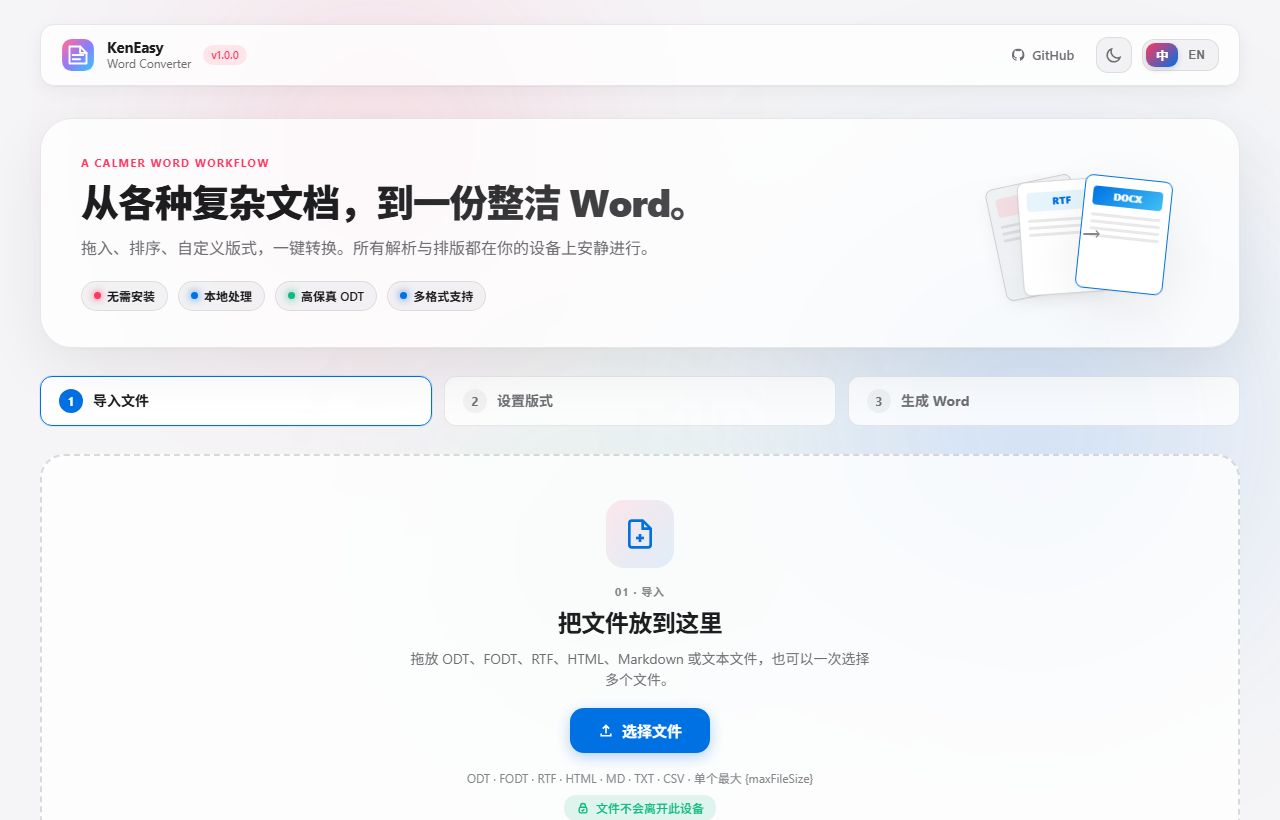
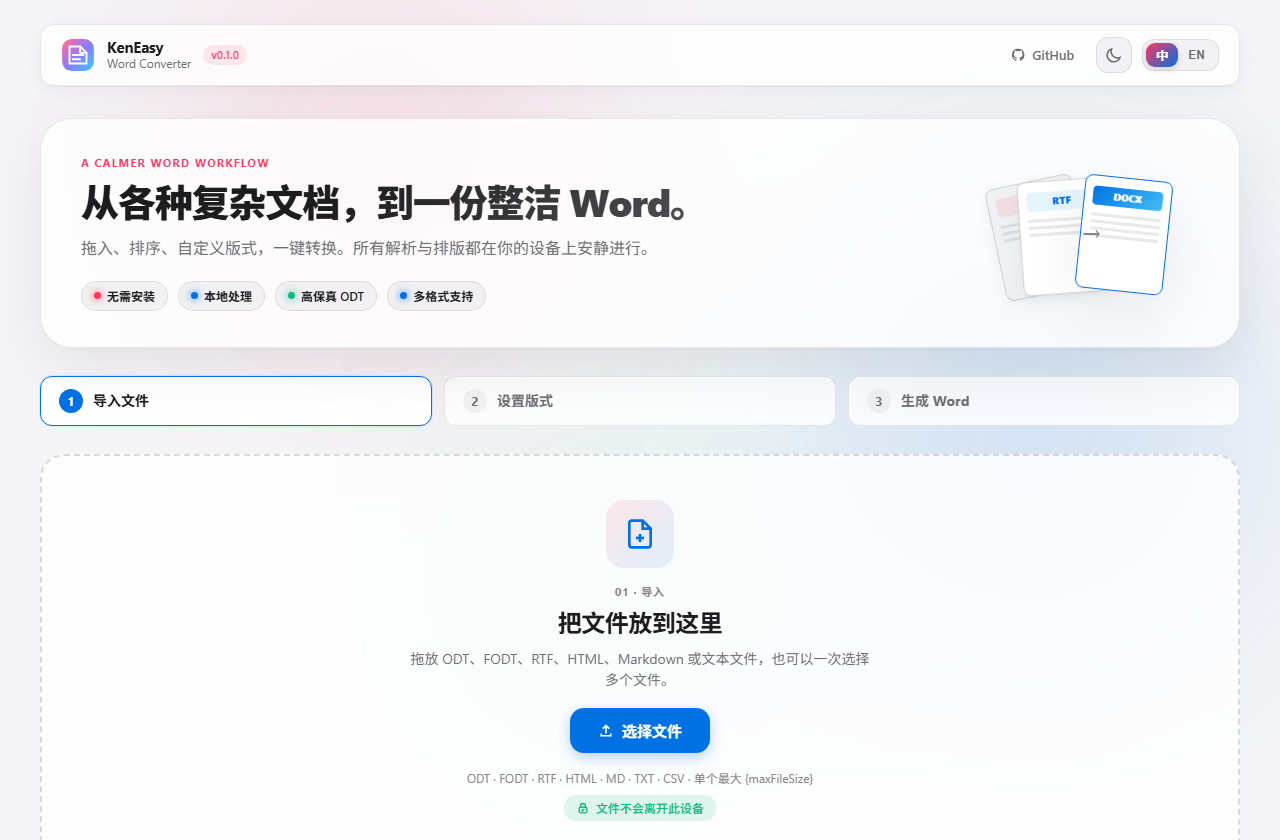
release: v0.1.0 public launch with ECMA-376 table fixes and rich README visuals

diff --git a/web/doc-engine.js b/web/doc-engine.js
@@ -414,6 +414,7 @@
         fontSizePt: 12,
         align: "left",
         color: null,
+        skip: false,
       };
 
       var colorTable = [];
@@ -447,16 +448,44 @@
           var nextChar = text[i];
 
           if (nextChar === "{" || nextChar === "}" || nextChar === "\\") {
-            currentParagraph.runs.push(Object.assign({ text: nextChar }, curState));
+            if (!curState.skip) {
+              currentParagraph.runs.push(Object.assign({ text: nextChar }, curState));
+            }
+            i++;
+          } else if (nextChar === "*") {
+            // Ignorable destination group {\*...}
+            curState.skip = true;
             i++;
           } else if (nextChar === "'") {
-            // Hex character \'xx
-            i++;
-            var hex = text.substr(i, 2);
-            i += 2;
-            var code = parseInt(hex, 16);
-            if (!isNaN(code)) {
-              currentParagraph.runs.push(Object.assign({ text: String.fromCharCode(code) }, curState));
+            // Hex character \'xx - collect consecutive hex bytes
+            var hexBytes = [];
+            while (i < len - 2 && text[i] === "'" && /[0-9a-fA-F]{2}/.test(text.substr(i + 1, 2))) {
+              i++; // skip '
+              hexBytes.push(parseInt(text.substr(i, 2), 16));
+              i += 2;
+              // Check if next is another \'xx
+              if (i < len - 2 && text[i] === "\\" && text[i + 1] === "'") {
+                i++; // skip \
+              } else {
+                break;
+              }
+            }
+            if (hexBytes.length > 0 && !curState.skip) {
+              var decodedStr = "";
+              try {
+                decodedStr = new TextDecoder("utf-8", { fatal: true }).decode(new Uint8Array(hexBytes));
+              } catch (e1) {
+                try {
+                  decodedStr = new TextDecoder("gb18030").decode(new Uint8Array(hexBytes));
+                } catch (e2) {
+                  decodedStr = hexBytes
+                    .map(function (b) {
+                      return String.fromCharCode(b);
+                    })
+                    .join("");
+                }
+              }
+              currentParagraph.runs.push(Object.assign({ text: decodedStr }, curState));
             }
           } else {
             // Read control word
@@ -480,14 +509,45 @@
 
             var num = param !== "" ? parseInt(param, 10) : null;
 
+            var skipDestinations = [
+              "fonttbl", "colortbl", "stylesheet", "info", "docprops",
+              "header", "headerl", "headerr", "headerf",
+              "footer", "footerl", "footerr", "footerf",
+              "pict", "generator", "author", "operator", "creatim", "revtim", "version",
+              "title", "subject", "keywords", "comment", "doccomm", "fontemb", "fontfile"
+            ];
+            if (skipDestinations.indexOf(word) !== -1) {
+              curState.skip = true;
+            }
+
             if (word === "par") {
               // Flush paragraph
-              ast.elements.push(currentParagraph);
-              currentParagraph = {
-                type: "paragraph",
-                runs: [],
-                align: curState.align || "left",
-              };
+              if (!curState.skip && currentParagraph.runs.length > 0) {
+                ast.elements.push(currentParagraph);
+                currentParagraph = {
+                  type: "paragraph",
+                  runs: [],
+                  align: curState.align || "left",
+                };
+              }
+            } else if (word === "line") {
+              if (!curState.skip) {
+                currentParagraph.runs.push(Object.assign({ text: "\n", breakLine: true }, curState));
+              }
+            } else if (word === "bullet") {
+              if (!curState.skip) currentParagraph.runs.push(Object.assign({ text: "• " }, curState));
+            } else if (word === "emdash") {
+              if (!curState.skip) currentParagraph.runs.push(Object.assign({ text: "—" }, curState));
+            } else if (word === "endash") {
+              if (!curState.skip) currentParagraph.runs.push(Object.assign({ text: "–" }, curState));
+            } else if (word === "ldblquote") {
+              if (!curState.skip) currentParagraph.runs.push(Object.assign({ text: "“" }, curState));
+            } else if (word === "rdblquote") {
+              if (!curState.skip) currentParagraph.runs.push(Object.assign({ text: "”" }, curState));
+            } else if (word === "lquote") {
+              if (!curState.skip) currentParagraph.runs.push(Object.assign({ text: "‘" }, curState));
+            } else if (word === "rquote") {
+              if (!curState.skip) currentParagraph.runs.push(Object.assign({ text: "’" }, curState));
             } else if (word === "b") {
               curState.bold = num === 0 ? false : true;
             } else if (word === "i") {
@@ -513,10 +573,10 @@
               curState.align = "justify";
               currentParagraph.align = "justify";
             } else if (word === "tab") {
-              currentParagraph.runs.push(Object.assign({ text: "\t" }, curState));
+              if (!curState.skip) currentParagraph.runs.push(Object.assign({ text: "\t" }, curState));
             } else if (word === "u") {
               // Unicode codepoint \uN?
-              if (num !== null) {
+              if (num !== null && !curState.skip) {
                 var uChar = String.fromCharCode(num < 0 ? num + 65536 : num);
                 currentParagraph.runs.push(Object.assign({ text: uChar }, curState));
                 // Often followed by replacement char like ?, skip if next is non-backslash
@@ -540,7 +600,7 @@
             runText += text[i];
             i++;
           }
-          if (runText) {
+          if (runText && !curState.skip) {
             currentParagraph.runs.push(Object.assign({ text: runText }, curState));
           }
         }
@@ -1466,12 +1526,30 @@
         tblXml += "        </w:tblBorders>\n";
         tblXml += "      </w:tblPr>\n";
 
+        var maxCols = 1;
+        for (var rIdx = 0; rIdx < el.rows.length; rIdx++) {
+          var colCount = 0;
+          for (var cIdx = 0; cIdx < el.rows[rIdx].cells.length; cIdx++) {
+            colCount += (el.rows[rIdx].cells[cIdx].colSpan || 1);
+          }
+          if (colCount > maxCols) maxCols = colCount;
+        }
+
+        tblXml += "      <w:tblGrid>\n";
+        var colW = Math.max(720, Math.floor(9000 / maxCols));
+        for (var g = 0; g < maxCols; g++) {
+          tblXml += '        <w:gridCol w:w="' + colW + '"/>\n';
+        }
+        tblXml += "      </w:tblGrid>\n";
+
         for (var r = 0; r < el.rows.length; r++) {
           tblXml += "      <w:tr>\n";
           var row = el.rows[r];
           for (var c = 0; c < row.cells.length; c++) {
             var cell = row.cells[c];
+            var cellW = colW * (cell.colSpan || 1);
             tblXml += "        <w:tc>\n          <w:tcPr>\n";
+            tblXml += '            <w:tcW w:w="' + cellW + '" w:type="dxa"/>\n';
             if (cell.colSpan > 1) {
               tblXml += '            <w:gridSpan w:val="' + cell.colSpan + '"/>\n';
             }

diff --git a/web/index.html b/web/index.html
@@ -8,7 +8,7 @@
   <meta name="theme-color" content="#f5f5f7">
   <meta name="referrer" content="no-referrer">
   <meta http-equiv="Content-Security-Policy" content="default-src 'self'; script-src 'self'; style-src 'self' 'unsafe-inline'; img-src 'self' blob: data:; connect-src 'none'; object-src 'none'; base-uri 'none'; form-action 'none'">
-  <link rel="stylesheet" href="styles.css?v=1.0.0">
+  <link rel="stylesheet" href="styles.css?v=0.1.0">
 </head>
 <body>
   <a class="skip-link" href="#main" data-i18n="skipToMain">跳到主要内容</a>
@@ -40,7 +40,7 @@
           <strong>KenEasy</strong>
           <span>Word Converter</span>
         </div>
-        <span class="version-pill">v1.0.0</span>
+        <span class="version-pill">v0.1.0</span>
       </div>
 
       <nav class="header-actions" data-i18n-aria-label="utilityAria" aria-label="工具导航">
@@ -281,9 +281,9 @@
   <script src="vendor/Sortable.min.js"></script>
 
   <!-- Application Layered Modules -->
-  <script src="config.js?v=1.0.0"></script>
-  <script src="i18n.js?v=1.0.0"></script>
-  <script src="doc-engine.js?v=1.0.0"></script>
-  <script src="app.js?v=1.0.0"></script>
+  <script src="config.js?v=0.1.0"></script>
+  <script src="i18n.js?v=0.1.0"></script>
+  <script src="doc-engine.js?v=0.1.0"></script>
+  <script src="app.js?v=0.1.0"></script>
 </body>
 </html>

diff --git a/web/config.js b/web/config.js
@@ -3,7 +3,7 @@
   "use strict";
 
   var config = {
-    version: "1.0.0",
+    version: "0.1.0",
     appName: "KenEasy Word Converter",
     storageKeys: {
       language: "keneasy-word-lang",

diff --git a/README.md b/README.md
@@ -23,14 +23,14 @@
 <br/>
 
 <img alt="Use online" src="https://img.shields.io/badge/%E5%9C%A8%E7%BA%BF%E4%BD%BF%E7%94%A8-ngiken.github.io-fb7299?style=for-the-badge">
-<img alt="Version" src="https://img.shields.io/badge/version-1.0.0-0071e3?style=for-the-badge">
+<img alt="Version" src="https://img.shields.io/badge/version-0.1.0-0071e3?style=for-the-badge">
 <img alt="Privacy" src="https://img.shields.io/badge/privacy-local%20only-00aeec?style=for-the-badge">
 <img alt="Tests" src="https://img.shields.io/badge/e2e-32%2F32-27c499?style=for-the-badge">
 <img alt="License" src="https://img.shields.io/badge/license-MIT-9aa4b2?style=for-the-badge">
 
 <br/><br/>
 
-<img src="docs/screenshots/hero-light.png" alt="KenEasy Word Converter v1.0.0 浅色主界面" width="1200">
+<img src="docs/screenshots/hero-light.png" alt="KenEasy Word Converter v0.1.0 浅色主界面" width="1200">
 
 <sub>Apple-inspired 自适应毛玻璃界面 · 离线开箱即用</sub>
 

diff --git a/README.en.md b/README.en.md
@@ -23,14 +23,14 @@
 <br/>
 
 <img alt="Use online" src="https://img.shields.io/badge/online%20app-ngiken.github.io-fb7299?style=for-the-badge">
-<img alt="Version" src="https://img.shields.io/badge/version-1.0.0-0071e3?style=for-the-badge">
+<img alt="Version" src="https://img.shields.io/badge/version-0.1.0-0071e3?style=for-the-badge">
 <img alt="Privacy" src="https://img.shields.io/badge/privacy-local%20only-00aeec?style=for-the-badge">
 <img alt="Tests" src="https://img.shields.io/badge/e2e-32%2F32-27c499?style=for-the-badge">
 <img alt="License" src="https://img.shields.io/badge/license-MIT-9aa4b2?style=for-the-badge">
 
 <br/><br/>
 
-<img src="docs/screenshots/hero-light.png" alt="KenEasy Word Converter v1.0.0 Light Theme" width="1200">
+<img src="docs/screenshots/hero-light.png" alt="KenEasy Word Converter v0.1.0 Light Theme" width="1200">
 
 <sub>Apple-inspired adaptive glassmorphic UI · Works offline out of the box</sub>
 
